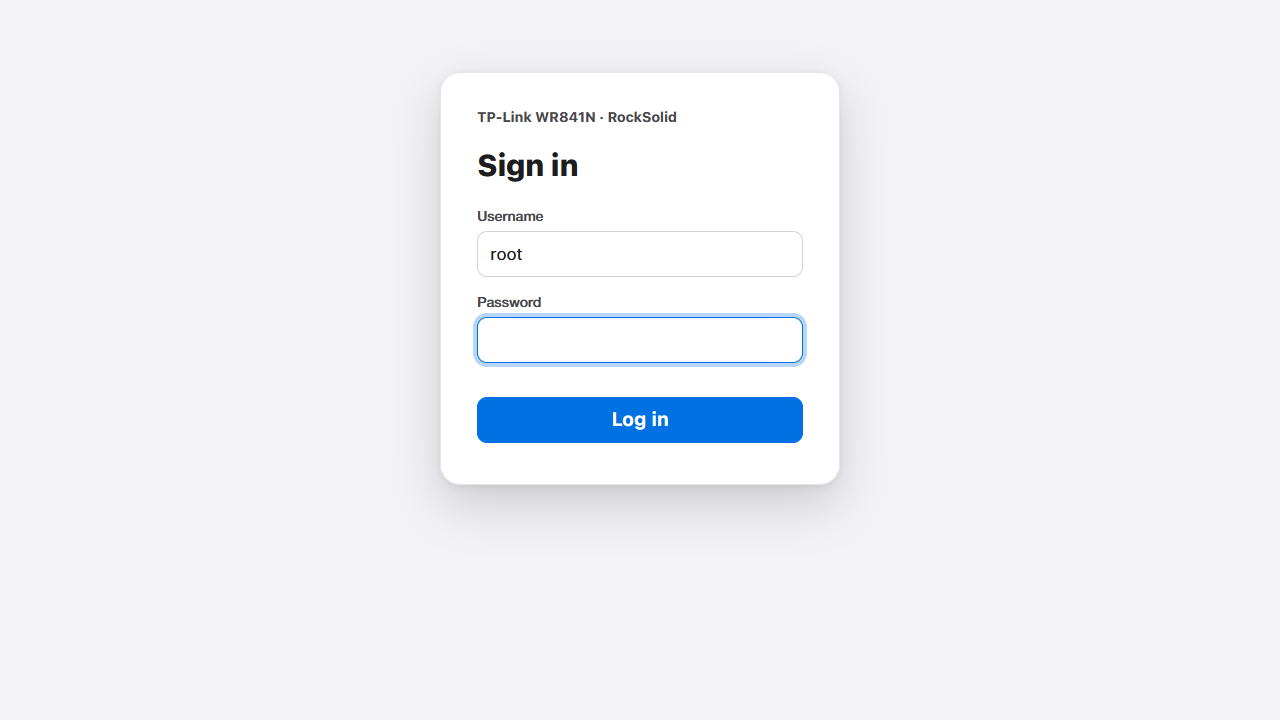
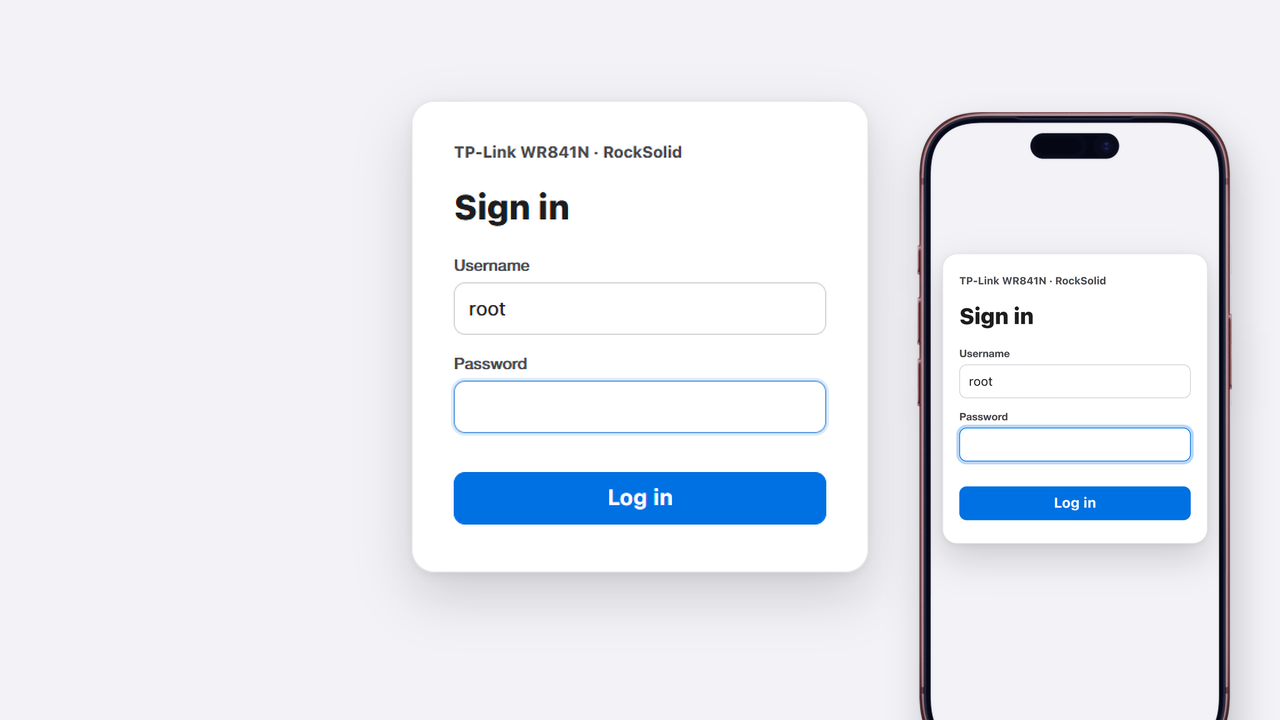
NextEd and RockSolid cards: desktop + phone screenshots like the others

Changed region(s): [[0.3125, 0.1528, 0.6875, 0.7333], [0.7188, 0.1528, 0.9688, 1.0], [0.3438, 0.7944, 0.6562, 0.825]]

diff --git a/src/config/projects.ts b/src/config/projects.ts
@@ -93,7 +93,7 @@ export const projects: Project[] = [
         href: "https://github.com/arkanullahs/tl-wr841n-v14-rocksolid",
         image: {
             src: "/shots/rocksolid.png",
-            alt: "RockSolid sign-in page in the router's web interface",
+            alt: "RockSolid sign-in page in the router's web interface, on desktop and on a phone",
             width: 1280,
             height: 720,
         },
@@ -165,9 +165,9 @@ export const projects: Project[] = [
         live: "https://nexted-frontend.vercel.app",
         image: {
             src: "/shots/nexted.png",
-            alt: "NextEd home page",
+            alt: "NextEd home page on desktop and on a phone",
             width: 1280,
-            height: 480,
+            height: 720,
         },
         emoji: "NE",
         cover: "browser",
